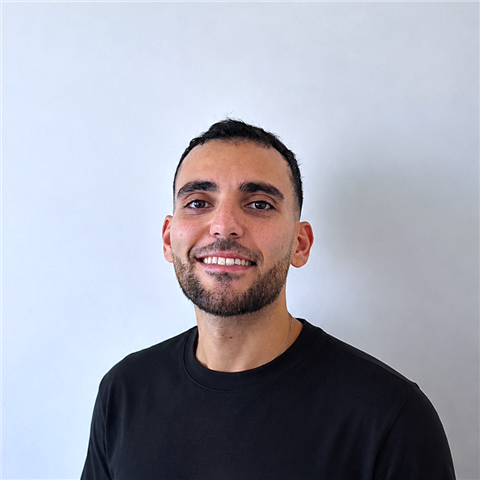
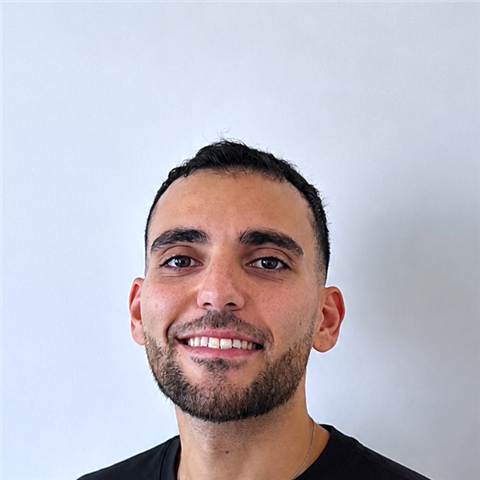
Foto: 660px crop (gezicht+schouders+borst) + cache-buster v5 voor desktop refresh

diff --git a/docs/index.html b/docs/index.html
@@ -1472,7 +1472,7 @@
         <div style="margin-top: 56px; max-width: 760px; margin-left: auto; margin-right: auto; text-align: center;">
                 <div style="margin-bottom: 28px;">
                     <div style="width:240px; height:240px; border-radius:50%; border:2px solid rgba(201,168,76,0.35); overflow:hidden; display:block; margin:0 auto;">
-                        <img src="images/oussama.png" alt="Oussama Hlalouch" style="width:240px; height:240px; display:block;">
+                        <img src="images/oussama.png?v=5" alt="Oussama Hlalouch" style="width:240px; height:240px; display:block;">
                     </div>
                 </div>
                 <h3 class="about-name">Oussama Hlalouch</h3>